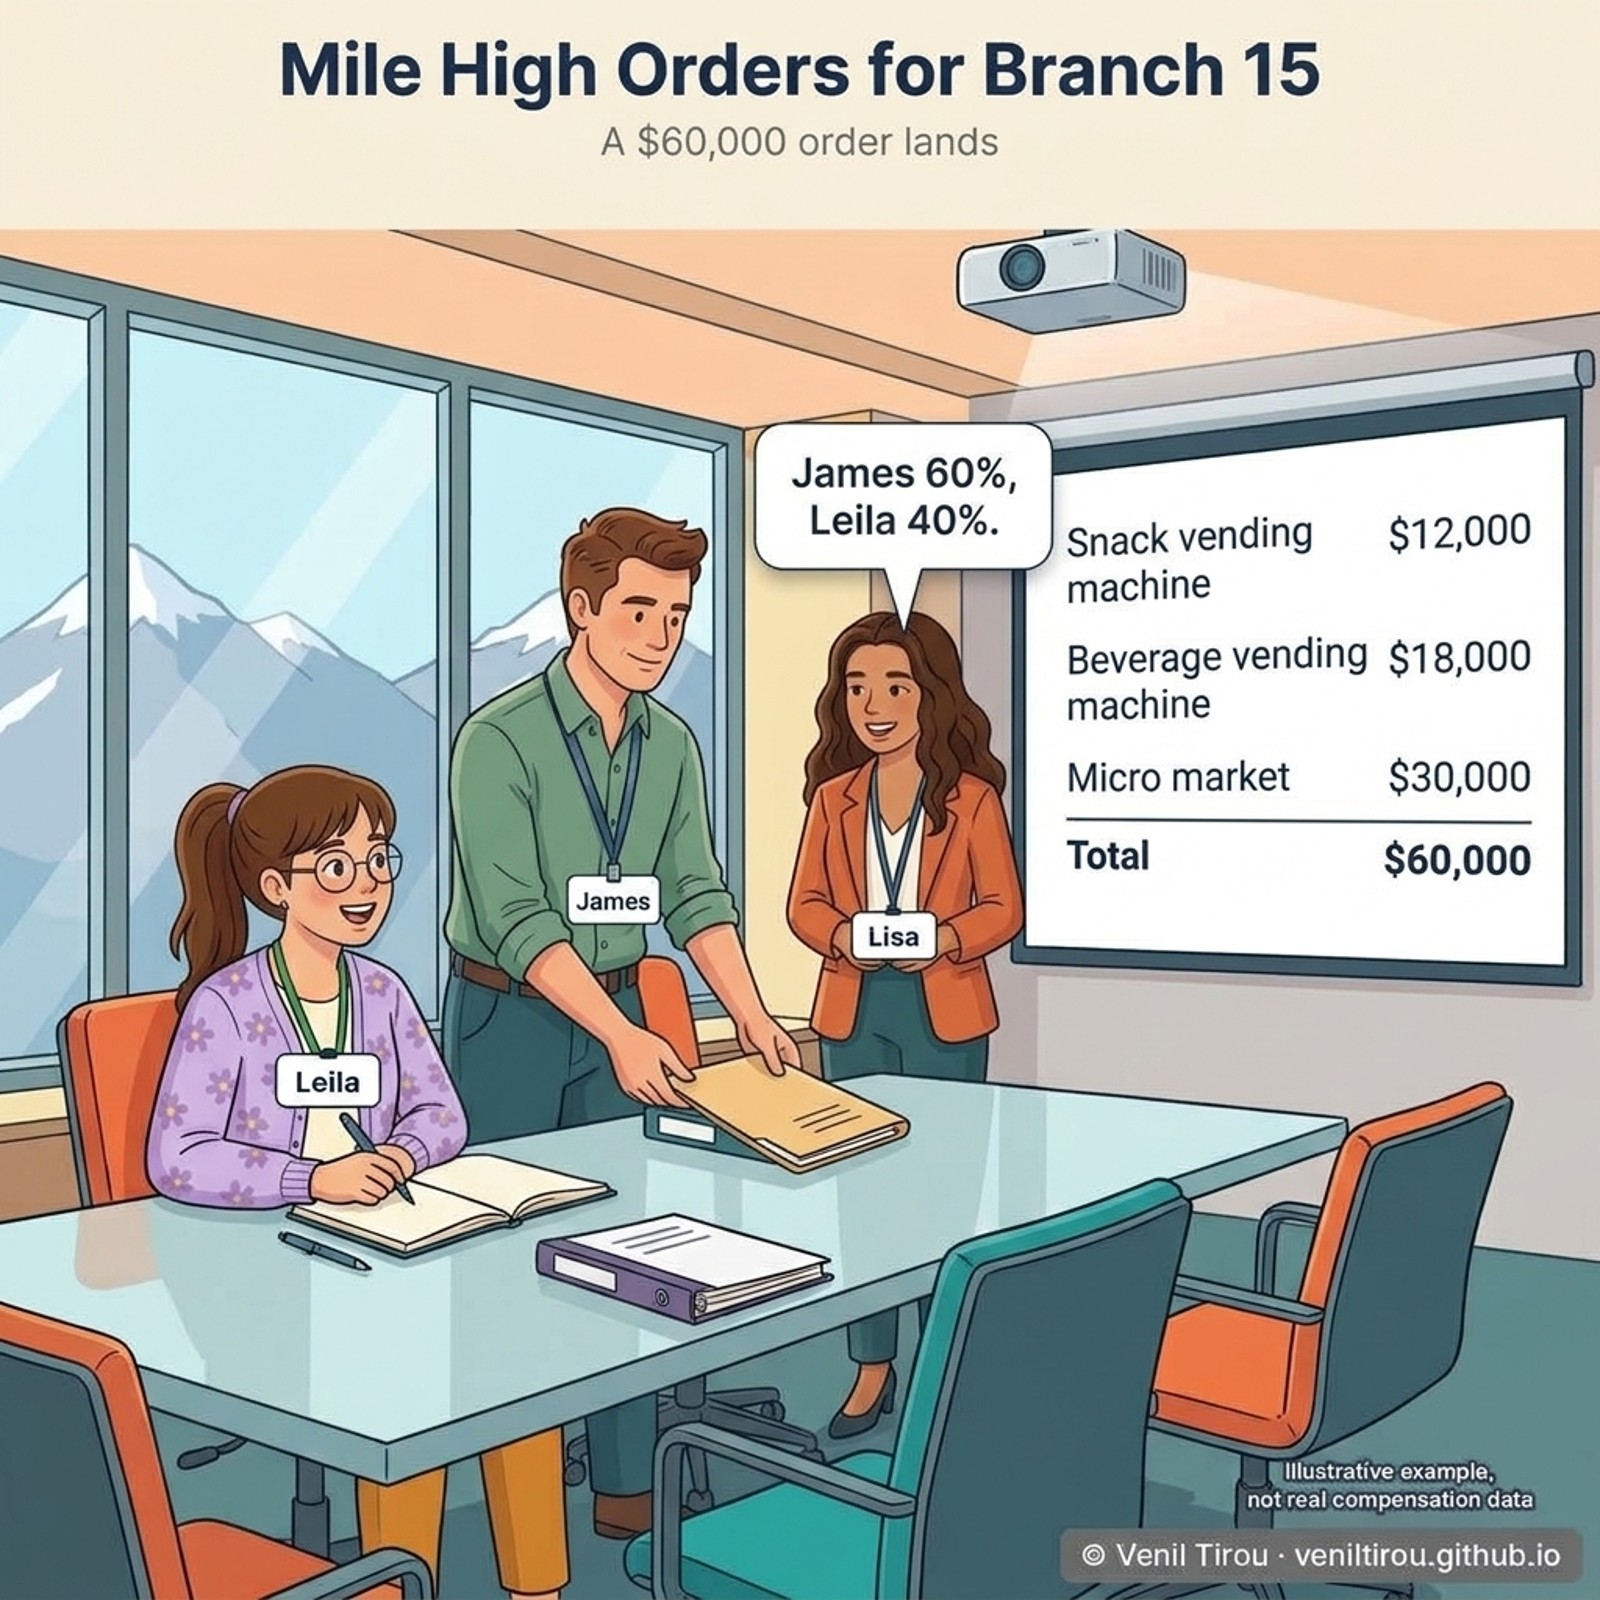
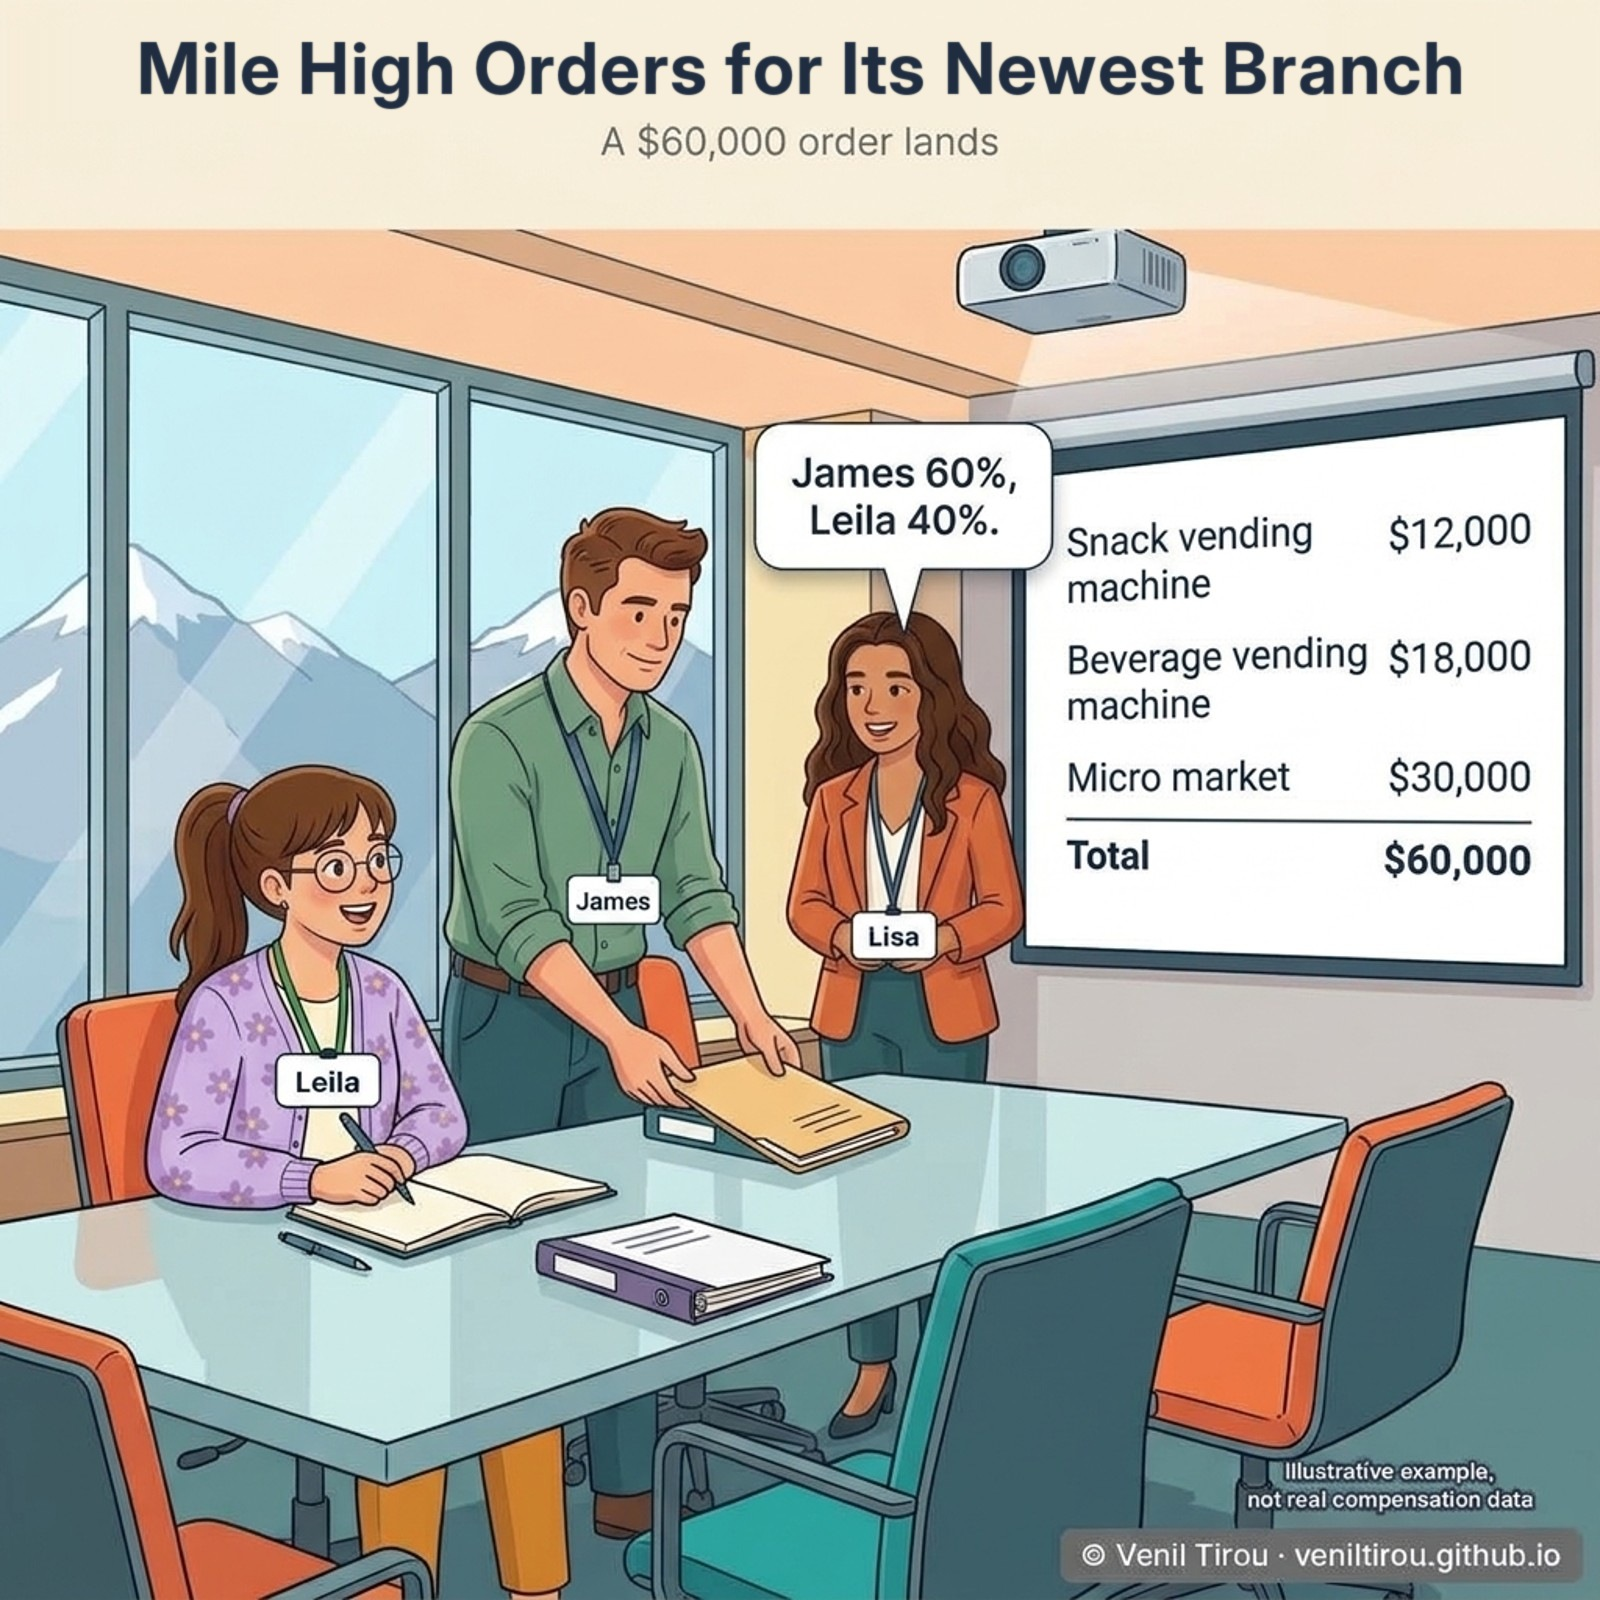
I6: say "newest branch" instead of "Branch 15" in Scene 1
Claude-Session: https://claude.ai/code/session_01AkUNH4KF5rPMhPp6XmNQB4

Changed region(s): [[0.0625, 0.0, 0.9375, 0.0938]]

diff --git a/order-to-earnings/index.html b/order-to-earnings/index.html
@@ -380,7 +380,7 @@
       </div>
     </div>
     <div class="storyboard">
-      <h3>Scene 1 — Mile High Orders for Branch 15</h3>
+      <h3>Scene 1 — Mile High Orders for Its Newest Branch</h3>
       <img src="Earnings01.jpg"
            alt="James sets the signed order on the table while Lisa says James 60%, Leila 40%; the screen lists the snack machine, beverage machine and micro market totaling $60,000" />
       <div class="what-it-shows">
